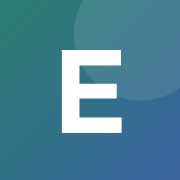
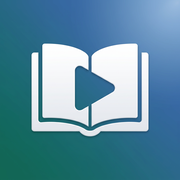
Escola do Shin 1.0.1: ícone definitivo
Claude-Session: https://claude.ai/code/session_015hvD99biK83FBdHLKD3EzZ

diff --git a/src/escola-do-shin/public/estilo.css b/src/escola-do-shin/public/estilo.css
@@ -49,7 +49,7 @@ svg{flex:none}
 .menu{flex:0 0 248px;position:sticky;top:20px;background:var(--card);border-radius:24px;box-shadow:var(--shadow);padding:24px 14px;display:flex;flex-direction:column;gap:26px;max-height:calc(100vh - 40px);overflow:auto}
 .conteudo{flex:1;min-width:0;padding:8px 8px 60px;outline:none}
 .marca{display:flex;align-items:center;gap:12px;padding:0 8px}
-.marca-ico{width:40px;height:40px;border-radius:12px;background:var(--grad);color:#fff;display:flex;align-items:center;justify-content:center;font-weight:800;font-size:19px}
+.marca-ico{width:40px;height:40px;border-radius:12px;background:url(icone-192.png) center/cover;color:#fff;display:flex;align-items:center;justify-content:center;font-weight:800;font-size:19px}
 .marca b{display:block;font-size:17px;font-weight:800;letter-spacing:-.01em}
 .marca small{font-size:12px;color:var(--muted)}
 .nav-grupo{display:flex;flex-direction:column;gap:2px}

diff --git a/src/escola-do-shin/public/app.js b/src/escola-do-shin/public/app.js
@@ -121,7 +121,7 @@
     const isExp = r.startsWith('/explorar');
     const sem = lib ? lib.week : { seconds: 0, lessonsDone: 0 };
     $('#menu').innerHTML = `
-      <a class="marca" href="#/"><span class="marca-ico" aria-hidden="true">E</span><span><b>Escola do Shin</b><small>sua biblioteca de cursos</small></span></a>
+      <a class="marca" href="#/"><span class="marca-ico" aria-hidden="true"></span><span><b>Escola do Shin</b><small>sua biblioteca de cursos</small></span></a>
       <div class="nav-grupo">
         <a class="nav-item${ativo(r === '/')}" href="#/">${ic('inicio')}Início</a>
         <a class="nav-item${ativo(isExp && ![...p.keys()].length)}" href="#/explorar">${ic('explorar')}Explorar</a>

diff --git a/src/escola-do-shin/public/index.html b/src/escola-do-shin/public/index.html
@@ -11,7 +11,7 @@
 <meta name="apple-mobile-web-app-title" content="Escola do Shin">
 <meta name="apple-mobile-web-app-status-bar-style" content="default">
 <link rel="manifest" href="manifest.webmanifest">
-<link rel="icon" href="icone.svg" type="image/svg+xml">
+<link rel="icon" href="icone-64.png" type="image/png">
 <link rel="apple-touch-icon" href="icone-180.png">
 <link rel="stylesheet" href="estilo.css">
 <script>
